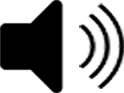
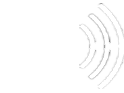
Updated colorscheme for volume menu. Added theme for button style

diff --git a/MainPage.xaml b/MainPage.xaml
@@ -37,6 +37,70 @@
             <Setter Property="Foreground" Value="Black"/>
             <Setter Property="HorizontalAlignment" Value="Center"/>
         </Style>
+        <Style x:Key="OwnButtonStyle" TargetType="Button">
+            <Setter Property="Foreground" Value="{ThemeResource AccentButtonForeground}"/>
+            <Setter Property="Background" Value="{ThemeResource AccentButtonBackground}"/>
+            <Setter Property="BackgroundSizing" Value="OuterBorderEdge"/>
+            <Setter Property="BorderBrush" Value="{ThemeResource AccentButtonBorderBrush}"/>
+            <Setter Property="Template">
+                <Setter.Value>
+                    <ControlTemplate TargetType="Button">
+                        <ContentPresenter x:Name="ContentPresenter" AutomationProperties.AccessibilityView="Raw" BackgroundSizing="{TemplateBinding BackgroundSizing}" Background="{TemplateBinding Background}" BorderThickness="{TemplateBinding BorderThickness}" BorderBrush="{TemplateBinding BorderBrush}" ContentTemplate="{TemplateBinding ContentTemplate}" Content="{TemplateBinding Content}" CornerRadius="{TemplateBinding CornerRadius}" ContentTransitions="{TemplateBinding ContentTransitions}" HorizontalContentAlignment="{TemplateBinding HorizontalContentAlignment}" Padding="{TemplateBinding Padding}" VerticalContentAlignment="{TemplateBinding VerticalContentAlignment}">
+                            <VisualStateManager.VisualStateGroups>
+                                <VisualStateGroup x:Name="CommonStates">
+                                    <VisualState x:Name="Normal">
+                                        <Storyboard>
+                                            <PointerUpThemeAnimation Storyboard.TargetName="ContentPresenter"/>
+                                        </Storyboard>
+                                    </VisualState>
+                                    <VisualState x:Name="PointerOver">
+                                        <Storyboard>
+                                            <ObjectAnimationUsingKeyFrames Storyboard.TargetName="ContentPresenter" Storyboard.TargetProperty="Background">
+                                                <DiscreteObjectKeyFrame KeyTime="0" Value="{ThemeResource AccentButtonBorderBrushPointerOver}"/>
+                                            </ObjectAnimationUsingKeyFrames>
+                                            <ObjectAnimationUsingKeyFrames Storyboard.TargetName="ContentPresenter" Storyboard.TargetProperty="BorderBrush">
+                                                <DiscreteObjectKeyFrame KeyTime="0" Value="{ThemeResource AccentButtonBorderBrushPointerOver}"/>
+                                            </ObjectAnimationUsingKeyFrames>
+                                            <ObjectAnimationUsingKeyFrames Storyboard.TargetName="ContentPresenter" Storyboard.TargetProperty="Foreground">
+                                                <DiscreteObjectKeyFrame KeyTime="0" Value="{ThemeResource AccentButtonForegroundPointerOver}"/>
+                                            </ObjectAnimationUsingKeyFrames>
+                                            <PointerUpThemeAnimation Storyboard.TargetName="ContentPresenter"/>
+                                        </Storyboard>
+                                    </VisualState>
+                                    <VisualState x:Name="Pressed">
+                                        <Storyboard>
+                                            <ObjectAnimationUsingKeyFrames Storyboard.TargetName="ContentPresenter" Storyboard.TargetProperty="Background">
+                                                <DiscreteObjectKeyFrame KeyTime="0" Value="{ThemeResource AccentButtonBackgroundPressed}"/>
+                                            </ObjectAnimationUsingKeyFrames>
+                                            <ObjectAnimationUsingKeyFrames Storyboard.TargetName="ContentPresenter" Storyboard.TargetProperty="BorderBrush">
+                                                <DiscreteObjectKeyFrame KeyTime="0" Value="{ThemeResource AccentButtonBorderBrushPressed}"/>
+                                            </ObjectAnimationUsingKeyFrames>
+                                            <ObjectAnimationUsingKeyFrames Storyboard.TargetName="ContentPresenter" Storyboard.TargetProperty="Foreground">
+                                                <DiscreteObjectKeyFrame KeyTime="0" Value="{ThemeResource AccentButtonForegroundPressed}"/>
+                                            </ObjectAnimationUsingKeyFrames>
+                                            <PointerDownThemeAnimation Storyboard.TargetName="ContentPresenter"/>
+                                        </Storyboard>
+                                    </VisualState>
+                                    <VisualState x:Name="Disabled">
+                                        <Storyboard>
+                                            <ObjectAnimationUsingKeyFrames Storyboard.TargetName="ContentPresenter" Storyboard.TargetProperty="Background">
+                                                <DiscreteObjectKeyFrame KeyTime="0" Value="{ThemeResource AccentButtonBackgroundDisabled}"/>
+                                            </ObjectAnimationUsingKeyFrames>
+                                            <ObjectAnimationUsingKeyFrames Storyboard.TargetName="ContentPresenter" Storyboard.TargetProperty="BorderBrush">
+                                                <DiscreteObjectKeyFrame KeyTime="0" Value="{ThemeResource AccentButtonBorderBrushDisabled}"/>
+                                            </ObjectAnimationUsingKeyFrames>
+                                            <ObjectAnimationUsingKeyFrames Storyboard.TargetName="ContentPresenter" Storyboard.TargetProperty="Foreground">
+                                                <DiscreteObjectKeyFrame KeyTime="0" Value="{ThemeResource AccentButtonForegroundDisabled}"/>
+                                            </ObjectAnimationUsingKeyFrames>
+                                        </Storyboard>
+                                    </VisualState>
+                                </VisualStateGroup>
+                            </VisualStateManager.VisualStateGroups>
+                        </ContentPresenter>
+                    </ControlTemplate>
+                </Setter.Value>
+            </Setter>
+        </Style>
 
     </Page.Resources>
     <Grid x:Name="mainGrid">
@@ -88,29 +152,36 @@
         </Grid>
 
         <Grid x:Name="PlayingMenu" Visibility="Visible">
+            <Grid.ColumnDefinitions>
+                <ColumnDefinition Width="79*"/>
+                <ColumnDefinition/>
+            </Grid.ColumnDefinitions>
             <Button x:Name="BtnLowerVolume" Click="BtnLowerVolume_Click"
-                 Style="{StaticResource AccentButtonStyle}"
+                 Background="#161616"
+                 Style="{StaticResource OwnButtonStyle}"
                  Height="30" Width="42"
                  HorizontalAlignment="Right"
-                 VerticalAlignment="Top" Margin="0,0,43,0">
+                 VerticalAlignment="Top" Margin="0,0,19,0">
                 <StackPanel>
                     <Image Source="Assets/Images/Menu/volumelower.png" Height="20" Width="20"/>
                 </StackPanel>
             </Button>
             <Button x:Name="BtnRaiseVolume" Click="BtnRaiseVolume_Click"
-                 Style="{StaticResource AccentButtonStyle}"
+                 Background="#161616"
+                 Style="{StaticResource OwnButtonStyle}"
                  Height="30" Width="42"
                  HorizontalAlignment="Right"
-                 VerticalAlignment="Top">
+                 VerticalAlignment="Top" Grid.ColumnSpan="2">
                 <StackPanel>
                     <Image Source="Assets/Images/Menu/volumeraise.png" Height="20" Width="20"/>
                 </StackPanel>
             </Button>
             <Button x:Name="BtnMuteVolume" Click="BtnMuteVolume_Click"
-                 Style="{StaticResource AccentButtonStyle}"
+                 Background="#161616"
+                 Style="{StaticResource OwnButtonStyle}"
                  Height="30" Width="42"
                  HorizontalAlignment="Right"
-                 VerticalAlignment="Top" Margin="0,0,86,0">
+                 VerticalAlignment="Top" Margin="0,0,62,0">
                 <StackPanel>
                     <Image x:Name="muteButtonChange" Source="Assets/Images/Menu/volumeunmute.png" Height="20" Width="20"/>
                 </StackPanel>
